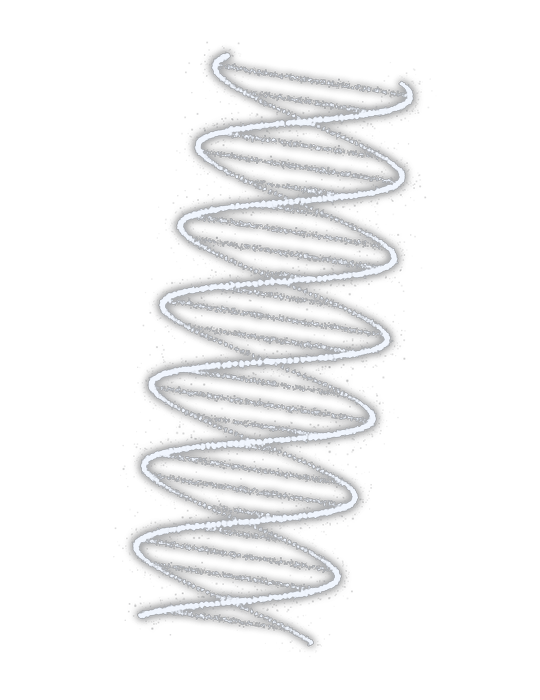
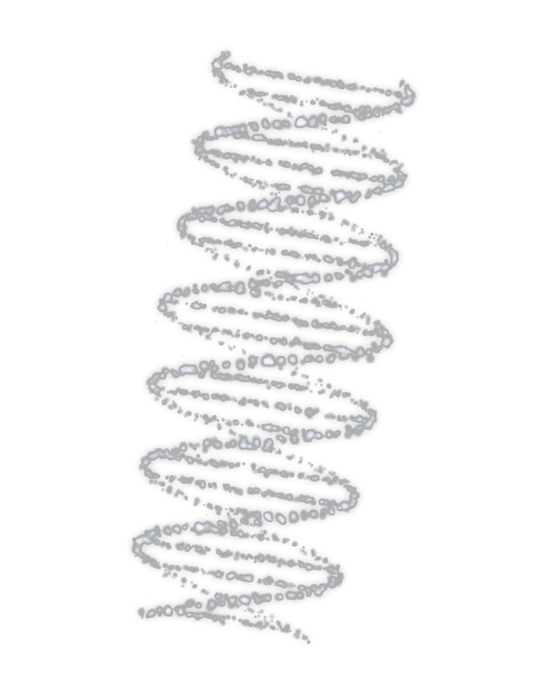
genome: bubbles, not dust - bigger, sparser, translucent, and consistent everywhere
The specks were the right idea at the wrong scale: hundreds of tiny uniform dots
read as fuss rather than as a molecule made of something.

The plate render now uses far fewer positions ALONG the helix path, not just
fewer particles at each one - that was the actual lever. A dense chain of big
blobs merges straight back into a tube however few you put at each step. Radii
are larger and much more varied, and the tone map no longer drives bubble cores
to white: a mask value of 1.0 makes its tinted bubble fully opaque, which is
exactly what read as "solid dots". Sub-unity cores are what make the colour
translucent.

The two flat-disc legends are gone. A genre's marker in the callout and in the
base-pair list is now the same object as a particle in the molecule - a soft
radial falloff with an off-centre highlight, which is what separates a bubble
from a smudge. No asset: a radial-gradient reproduces the renderer's gaussian
exactly.

The callout bar's strip is regenerated to the same bubble size, single-row (two
overlapping rows fused into vertical ovals once squashed into the bar's height),
and is tiled at its natural aspect rather than stretched - stretching squeezed
every bubble into a tall oval, which is why the bar read as tick marks.

helix_render.py reproduces both shipped PNGs byte for byte; geometry unchanged.

Claude-Session: https://claude.ai/code/session_019RwfweVutEXsqKUVx86JUH

Changed region(s): [[0.237, 0.06, 0.7704, 0.93]]

diff --git a/src/components/genome/GenomeMolecule.vue b/src/components/genome/GenomeMolecule.vue
@@ -111,7 +111,7 @@
                   "
                   stroke-width="15"
                   stroke-linecap="round"
-                  :opacity="leg.key === active?.legKey ? 1 : 0.72"
+                  :opacity="leg.key === active?.legKey ? 1 : 0.88"
                   :style="{
                     strokeWidth: leg.key === active?.legKey ? '18px' : '15px',
                   }"
@@ -281,7 +281,7 @@
                   <span>
                     <span
                       class="genome-hud__dot"
-                      :style="{ background: baseColor(i) }"
+                      :style="{ background: bubble(i) }"
                     ></span>
                     {{ hudInfo.mixLabels[i] }}
                   </span>
@@ -326,7 +326,7 @@
                 <div class="genome-baserow__id">
                   <span
                     class="genome-baserow__dot"
-                    :style="{ background: baseColor(i) }"
+                    :style="{ background: bubble(i) }"
                   ></span>
                   <div>
                     <div class="genome-baserow__label">{{ base.label }}</div>
@@ -430,6 +430,21 @@ function baseColor(index: number, lightness = 60, saturation = 80): string {
 }
 const neutralColor = "hsl(220 6% 52%)";
 
+// The legend markers are the same object as a particle in the molecule: a soft-edged,
+// translucent blob, not a flat disc. A radial gradient reproduces the renderer's gaussian
+// falloff exactly, so no asset is needed - and a tiny highlight off-centre is what makes
+// it read as a bubble rather than a smudge.
+function bubble(index: number): string {
+  const core = baseColor(index, 68, 85);
+  const edge = baseColor(index, 52, 80);
+  return (
+    `radial-gradient(circle at 38% 34%, rgba(255,255,255,.55) 0%, ` +
+    `rgba(255,255,255,0) 34%), ` +
+    `radial-gradient(circle at 50% 50%, ${core} 0%, ${core} 38%, ${edge} 62%, ` +
+    `transparent 76%)`
+  );
+}
+
 // `base_mix` is [] when cross-genre affinity isn't computable, and absent entirely on a
 // payload from an older result schema. Both mean the same thing to the visual.
 function baseMix(genre: GenreShare): number[] {
@@ -483,7 +498,7 @@ const allRungs = computed<RungView[]>(() =>
     // Face-on rungs read brighter than edge-on ones, as they would in a real molecule.
     // Higher than the old figures: the colour is now confined to the particles, so it
     // has far less area to work with and needs the strength back.
-    const baseOpacity = 0.55 + 0.35 * rung.face;
+    const baseOpacity = 0.68 + 0.32 * rung.face;
     if (!genre) {
       // surplus rung: no genre left to pair with it - untinted, inert.
       return {
@@ -704,8 +719,12 @@ const hudAnchor = computed(() => ({
 const barMaskStyle = {
   maskImage: `url("${barMaskSrc}")`,
   WebkitMaskImage: `url("${barMaskSrc}")`,
-  maskSize: "100% 100%",
-  WebkitMaskSize: "100% 100%",
+  // auto width, not 100%: stretching the strip to the bar's width squashes every bubble
+  // into a tall oval. Tiling keeps them round at any bar width.
+  maskSize: "auto 100%",
+  WebkitMaskSize: "auto 100%",
+  maskRepeat: "repeat-x",
+  WebkitMaskRepeat: "repeat-x",
 };
 
 const hudBarGradient = computed(() => {
@@ -852,7 +871,7 @@ const legAriaLabel = computed(() =>
 .genome-plate__img {
   /* Dimmed, because it is the unlit state. The tinted particles sit directly on top of
      these same specks, so a bright base underneath would wash every colour out. */
-  opacity: 0.5;
+  opacity: 0.62;
 }
 .genome-hit {
   cursor: pointer;
@@ -923,7 +942,7 @@ const legAriaLabel = computed(() =>
   display: flex;
   /* Taller than a plain progress bar needs to be: it is masked by the speck texture,
      and specks need room to read as specks. */
-  height: 13px;
+  height: 15px;
   margin: 9px 0 2px;
 }
 .genome-hud__bar-fill {
@@ -952,10 +971,10 @@ const legAriaLabel = computed(() =>
 }
 .genome-hud__dot {
   display: inline-block;
-  width: 6px;
-  height: 6px;
-  border-radius: 50%;
-  margin-right: 6px;
+  width: 11px;
+  height: 11px;
+  margin-right: 5px;
+  vertical-align: -1px;
 }
 .genome-hud__foot {
   display: flex;
@@ -1006,9 +1025,8 @@ const legAriaLabel = computed(() =>
 }
 .genome-baserow__dot {
   display: inline-block;
-  width: 9px;
-  height: 9px;
-  border-radius: 50%;
+  width: 15px;
+  height: 15px;
   flex-shrink: 0;
 }
 .genome-baserow__code {

diff --git a/src/assets/genome/helix_render.py b/src/assets/genome/helix_render.py
@@ -49,7 +49,11 @@ def splat(xs,ys,zs,sizes,gains):
         acc[lo_y:hi_y, lo_x:hi_x]+=v
 
 # ---- backbone: a dense cloud scattered around each strand's path -------------
-PER_STEP, STEPS = 34, 420
+# Bubbles, not dust. The count is low and the radii are large and widely varied, and -
+# the part that actually matters - there are far fewer positions ALONG the path. A dense
+# chain of big blobs merges back into a tube however few you put at each step.
+PER_STEP, STEPS = 4, 190
+JITTER = 1.9
 for i in range(STEPS):
     t=i/STEPS
     for strand,(p) in enumerate(helix(t)):
@@ -57,16 +61,16 @@ for i in range(STEPS):
         # TWO populations. A tight bright core carries the strand's shape; a loose
         # dim haze around it is what makes the edge glitter instead of ending flat.
         nc=PER_STEP
-        jx=rng.normal(0,1.15*SS,nc); jy=rng.normal(0,1.15*SS,nc)
+        jx=rng.normal(0,JITTER*SS,nc); jy=rng.normal(0,JITTER*SS,nc)
         splat(p[0]+jx, p[1]+jy, [p[2]]*nc,
-              rng.uniform(0.7,1.9,nc)*SS*(0.6+0.5*depth),
-              rng.uniform(0.5,1.9,nc)*(0.45+0.95*depth))
-        nh=int(PER_STEP*0.8)
+              rng.uniform(1.8,4.6,nc)*SS*(0.6+0.5*depth),
+              rng.uniform(0.5,1.5,nc)*(0.45+0.95*depth))
+        nh=int(PER_STEP*0.6)
         hx=rng.normal(0,4.6*SS,nh); hy=rng.normal(0,4.6*SS,nh)
         far=rng.random(nh)<0.12; hx[far]*=2.6; hy[far]*=2.6
         splat(p[0]+hx, p[1]+hy, [p[2]]*nh,
               rng.uniform(0.5,1.5,nh)*SS*(0.5+0.5*depth),
-              rng.uniform(0.05,0.40,nh)*(0.3+0.8*depth))
+              rng.uniform(0.05,0.25,nh)*(0.3+0.8*depth))
 
 # ---- base pairs: sparser, finer clouds ---------------------------------------
 rungs=[]
@@ -74,23 +78,23 @@ for k in range(NRUNGS):
     t=(k+0.5)/NRUNGS
     a,b=helix(t)
     L=math.hypot(a[0]-b[0],a[1]-b[1])
-    n=max(220,int(L*1.9))
+    n=max(30,int(L*0.30))
     f=rng.random(n)
     px=a[0]+(b[0]-a[0])*f; py=a[1]+(b[1]-a[1])*f; pz=a[2]+(b[2]-a[2])*f
     px=px+rng.normal(0,1.35*SS,n); py=py+rng.normal(0,1.35*SS,n)
     depth=(pz/RAD+1)/2
-    splat(px,py,pz,rng.uniform(0.6,1.6,n)*SS*(0.55+0.5*depth),
-          rng.uniform(0.45,1.75,n)*(0.40+0.90*depth))
+    splat(px,py,pz,rng.uniform(1.8,4.6,n)*SS*(0.55+0.5*depth),
+          rng.uniform(0.5,1.5,n)*(0.40+0.90*depth))
     rungs.append({"i":k,"t":t,"x1":a[0]/SS,"y1":a[1]/SS,"x2":b[0]/SS,"y2":b[1]/SS,
                   "len":L/SS,"face":abs(math.cos(-0.45+2*math.pi*TURNS*t))})
 
 # ---- tone map + bloom --------------------------------------------------------
 lum=np.clip(acc,0,None)
-lum=1-np.exp(-lum*0.85)                      # soft rolloff keeps highlights from clipping
+lum=1-np.exp(-lum*0.58)                      # soft rolloff keeps highlights from clipping
 img8=(np.clip(lum,0,1)*255).astype(np.uint8)
 base=Image.fromarray(img8,"L")
 glow=base.filter(ImageFilter.GaussianBlur(7*SS/2))
-merged=np.maximum(np.asarray(base,np.float32), np.asarray(glow,np.float32)*0.72)
+merged=np.maximum(np.asarray(base,np.float32), np.asarray(glow,np.float32)*0.30)
 merged=np.clip(merged,0,255).astype(np.uint8)
 L=Image.fromarray(merged,"L").resize((W,H),Image.LANCZOS)
 arr=np.asarray(L,np.float32)/255.0
@@ -109,13 +113,15 @@ sacc = np.zeros((SH*SS,SW*SS),np.float32)
 # Placed on a jittered grid rather than scattered at random: independent random
 # positions clump, and clumps merge into a smear instead of reading as individual
 # specks. Two offset rows give the bar depth without closing the gaps.
-STEP = 8.5
-for row, (yc, rscale) in enumerate(((0.44, 1.0), (0.62, 0.72))):
+STEP = 9.0
+# One row only: two overlapping rows fused into vertical ovals once the strip was
+# squashed into the bar's height, which read as tick marks rather than bubbles.
+for row, (yc, rscale) in enumerate(((0.5, 1.0),)):
     n = int(SW / STEP)
     for i in range(n):
         x = (i + 0.5 + rng.uniform(-0.22, 0.22)) * STEP * SS
-        y = (SH * yc + rng.normal(0, 0.5)) * SS
-        r = rng.uniform(2.0, 3.0) * rscale * SS
+        y = (SH * yc + rng.normal(0, 0.35)) * SS
+        r = rng.uniform(2.2, 4.0) * rscale * SS
         g = rng.uniform(0.8, 1.5) * (1.0 if row == 0 else 0.7)
         lo_x=max(0,int(x-r-1)); hi_x=min(SW*SS,int(x+r+2))
         lo_y=max(0,int(y-r-1)); hi_y=min(SH*SS,int(y+r+2))
